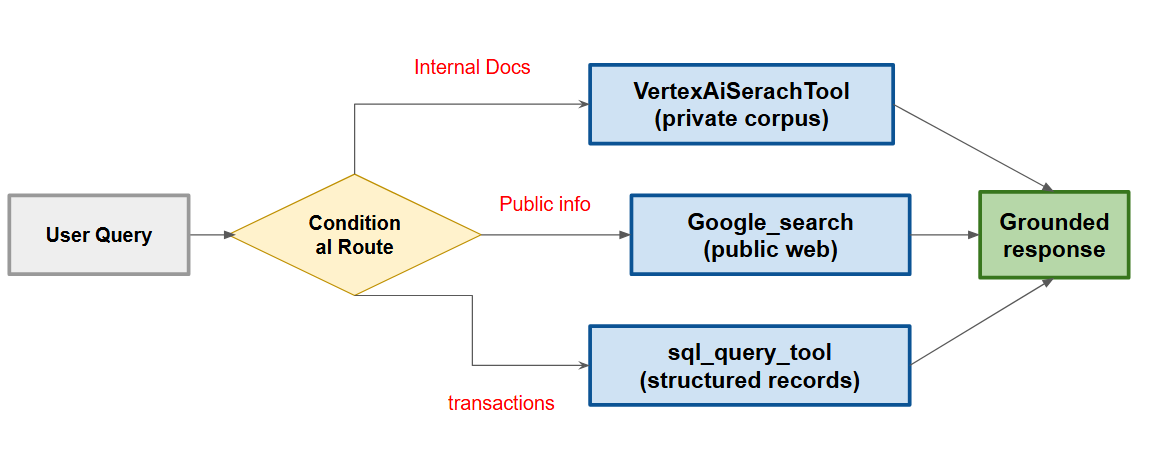
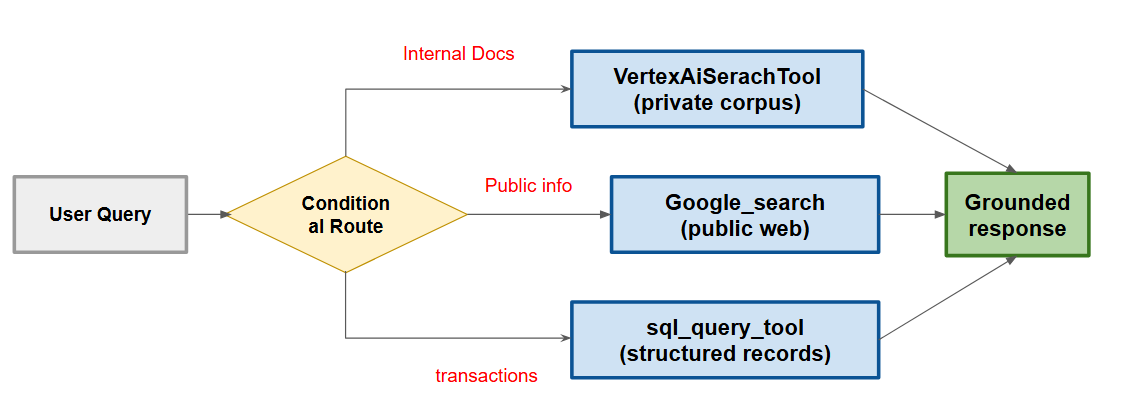
New Course Meterial

diff --git a/google/intro_to_adk/build_agents_with_adk.md b/google/intro_to_adk/build_agents_with_adk.md
@@ -1,5 +1,7 @@
 # Build Agents with the ADK
 
+Based on [Google Partner Skills Program](https://partner.skills.google/paths/4144/course_templates/1752/documents/632034)
+
 ## Agent, tools, and runners: The ADK model
 In this section we'll discover what the Google Agent Development Kit (ADK) is, what are its core components, how they fit together, and how to configure and run a simple agent.
 
@@ -9,7 +11,7 @@ The ADK is Google's open source framework for building, debugging, evaluating an
 
 ADK supports Python, TypeScript, Go, Java and Kotlin. Feature availability varies across language implementations, and _Python is the most complete implementation_. The **ADK is model-agnostic**, meaning that you can 'point it' at Gemini, Claude, OpenAI, Ollama, or _any provider supported by  LiteLLM_ (an opensource library, which provides a unified interface to dozens of model providers). You can swap models without rewriting your agent logic.
 
-The key distinction from call model API directly is orchestration. When you call a model API directly, you handle context assembly, tool dispatch, retry logic, and state management yourself. The _ADK handles all that infrastructure_, so your code expresses what an agent does, not how the runtime manages it.
+The key distinction from calling model APIs directly is orchestration. When you call a model API directly, _you_ handle context assembly, tool dispatch, retry logic, and state management yourself. The _ADK handles all that infrastructure_, so your code expresses what an agent does, not how the runtime manages it.
 
 Select the ADK of your task required one or more of the following:
 
@@ -683,3 +685,129 @@ The following diagram shows knowledge routing: A single query directed by intent
   <div align="center">
     <img src="images/knowledge_routing_adk2.png" alt="Knowledge Routing"/>
   </div>
+
+> <br/>📜 **Summary:**<br/>Grounding keeps answers anchored to real sources. Knowledge routing send each query to the right store. MCP extends an agent's reach to data and tools beyond the ADK's built-ins. Together, they let a multi-agent system draw on the full bredth of enterprise data while keeping every factual claim verifiable.<br/><br/>
+
+## Deploying Agents to Gemini Enterprise
+
+An Agent delivers value only when it reaches the people who need it, running reliably without infrastructure management.
+
+In this section we'll learn how to move an Agent from source-code to managed service on Agent Runtime, and how registering it in Gemini Enterprise (older name: Vertex AI) puts it in front of users across an organization. This allows agents to run reliably at enterprise scale without manual infrastructure management.
+
+### The Gemini Enterprise Agent Platform Ecosystem
+
+The **Gemini Enterprise Agent Platform** (a.k.a _Vertex AI Platform_) is Google cloud's managed platform for building, deploying, governing and optimizing AI agents. It consolidates capabilities that were previously spread across Vertex AI, Vertex AI Agent Builder, and Agent Engine into one platform. Agent Runtime is the new name for Agent Engine.
+
+The platform organizes it's capabilities across 4 pillars:
+
+| Pillar | Description |
+| :-- | :-- |
+| **Build** | Where the ADK lives. It's the code-first framework we've been using across this document to define agent behavior. |
+| **Scale** | Where Agent Runtime (Agent Engine) lives. It's the managed service that runs your deployed Agent(s). |
+| **Govern** | Includes Agent Registry (brand new service), a centralized catalog of approved agents, tools, and MCP servers across the organization. |
+| **Optimize** | Includes evaluation, observability, and simulation tooling for improving agent quality after deployment. |
+
+**Gemini Enterprise** is a separate product. It's the end-user web application that employees use to interact with AI Agents. An agent deployed to **Agent Runtime** (_Vertex AI Agent Engine_) doesn't automatically appear Gemini Enterprise. You register it there explicitly - we'll cover how in this section. **Registering an Agent in Gemini Enterprise is a separate step from adding it to Agent Registry.**
+
+The following diagram illustrates how ADK sits between the _Build pillar_, _Agent Runtime_ within the _Scale pillar_, and _Agent Registry_ within the _Govern Pillar_. It also shows Gemini Enterprise, which is the separate end-user application where you register agents after deployment.
+
+<div align="center">
+    <img src="images/gemini_enterprise_agent_platform.png" alt="Gemini Enterprise Agent Platform"/>
+</div>
+
+## Deploying with the ADK CLI and Agents CLI
+
+**Agent Runtime** (_Vertex AI Agent Engine_) is a fully managed service that handles scaling, cold starts, session persistence, and the network interface your agents needs to recieve requests. Deploying to it creates a `reasoningEngine` resource. That resource is the deployable unit, and its path is the handle you later hand to Gemini Enterprise.
+
+A multi-agent system deploys as a single unit. You deploy the agent project rooted at `root_agent`, which means the co-ordinator and its sub-agents together, and the Agent Runtime hosts the whole tree behind one `reasoningEngine` resource. The orchestration you build, carried over to the deployed agent unchanged, packaged the same way `adk web` discovers it locally.
+
+**Deployment assumes a billing-enabled Google Cloud project**, the Agent Platform and Cloud Resource Manager APIs enabled, an authenticatied `gcloud CLI`, and a standard ADK agent directory. 
+
+The two most direct routes to Agent Runtime are CLIs. Your choice depends on the amount of infrastructure management you prefer. Standard deployment uses ADK CLI directly. It's the right path, where you already have a project configured and want direct control over deployment parameters. You target Agent Runtme with `agent_engine` subcommand.
+
+```bash
+adk deploy agent_engine \
+  --project=$PROJECT_ID \
+  --region=$LOCATION_ID \
+  --display_name="Support Coordinator" \
+  support_agent
+```
+
+A successful deployment prints a resource path, such as `projects/PROJECT_ID/locations/LOCATION/reasoningEngines/RESOURCE_ID`. The trailing numeric `RESOURCE_ID` is what you keep for registration.
+
+Agents CLI is the right path when you want a production-ready environment setup for you, with CI/CD pipelines and infra-as-code through Terraform. You scaffold the project structure once, then deploy, and the result is the same `reasoningEngine` resource as the standard path. Whichever path you take, review any generated infrastructure against an organization's security standards before production.
+
+The following diagram illustrates the three-step deployment flow: Building the agent(s) with the ADK, deploying to Agent Runtime with ADK CLI or Agents CLI, then registering and sharing the resulting resource in Gemini Enterprise.
+
+<div align="center">
+    <img src="images/three_step_deployment_flow.png" alt="Three step deployment flow" height=300/>
+</div>
+
+### Configuring deployments programmatically
+
+Both CLI paths are convenience wrappers around one underlying mechanism: a programmatic call to `client.agent_engines.create()` in the Vertex AI SDK. Use the SDK directly when you need configuration control the CLI does not expose. That might mean choosing how your code reaches Agent Runtime, or tuning how the deployed service runs.
+
+The call accepts several deployment sources beyond your local agent directory:
+
+* **An in-memory agent object**: suited to interactive development in notebooks.
+* **Local source files or Dockerfile**: No cloud storage bucket required, which suits CI/CD pipelines.
+* **A prebuilt container image from Artifact Registry**: for teams that alread build and manage their own containers.
+* **A connected Git Repository, through Developer Connect**: Deploys straight from a linked repo, without a local build step.
+
+A `config` dictionary on the same call shapes how the deployed service runs. It groups into a few categories:
+
+| Category | Description |
+| :-- | :-- |
+| **Scaling & resources** | Instance count bounds, per-container CPU and memory, and request concurrency. |
+| **Identity and Secrets** | A dedicated agent identity or custom service account, plus environment variables backed by Secrets Manager. |
+| **Networking and Compliance** | Private Service Connect interfaces and customer-managed encryption keys. |
+
+Here is an example of the shape of the call:
+
+```python
+remote_agent = client.agent_engines.create(
+  agent=local_agent,
+  config= {
+    "display_name" : "Order Support Agent",
+    "min_instances" : 1,
+    "max_instances" : 10,
+    "resource_limits": {"cpu" : "4", "memory": "8Gi"},
+  },
+) 
+```
+
+The returned `remote_agent` wraps the same kind of `reasoningEngine` resource the CLI paths produce. `remote_agent.api_resource.name` returns its resource path, the string you carry into registration.
+
+### Registering and sharing in Gemini Enterprise
+
+Registering an agent in Gemini Enterprise makes it available to the web app, where an organization's user can invoke it. Registration needs the Gemini Enterprise Admin role, the Discovery Engine API enabled (it powers Gemini Enterprise), an existing Gemini Enterprise app, and the `reasoningEngine` resource URL from deployment.
+
+One compatability rule matters: The agent's deployment region must align with the app's location, so a `US` app expects a `us-` region and a `global` app accepts _any_.
+
+You register through the console or the REST API, and both do the same thing: link the deployed resource to a display name and description. The description is critical because the platform's model reads it to decide when to invoke the agent...,the same way a coordinator reads a sub-agent's `description` in a multi-agent pattern. The REST body shows the linkage directly.
+
+```bash
+curl -X POST ".../engines/APP_ID/assistants/default_assistant/agents" \
+  -H "Authorization: Bearer $(gcloud auth print-access-token)" \
+  -d '{
+    "displayName" : "Order Support Agent", 
+    "description" : "Handles order status and return requests",
+    "adkAgentsDefinition" : {
+      "provisionedReasoningEngine" : {
+        "reasoningEngine" : "projects/PROJECT/locations/LOCATION/reasoningEngines/RESOURCE_ID"
+      }
+    }
+  }'
+```
+
+Two conditions extend this base case. An optional authorization block is needed only when the agent acts on Google Cloud resources on behalf of users. And if the agent runs in a different project from the app, you first grant the Gemini Enterprise service agent the Discovery Engine Service Agent role in the agent's hosting project, so the platform can reach across the project boundary.
+
+Registration makes the agent exist: sharing decides who can use it. An admin shares a registered agent from its user-permissions view, and the sharing model spans several member types:
+
+* Individual users and groups by email
+* Single identities or whole pools from Workforce Identity Federation
+* An all-users option for the entire organization
+
+Each assignment carries a role. Once shared, users see the agent in their Gemini Enterprise app and an invoke it from there. 
+
+And that completes the path: and agent you build with ADK and ground, deployed to Agent Runtime as a managed resource, and shared with the people who rely on it.

diff --git a/google/intro_to_adk/craft_agents_with_persistent_memory.md b/google/intro_to_adk/craft_agents_with_persistent_memory.md
@@ -1,0 +1,63 @@
+# Craft Agents with Persistent Memories
+
+LLMs are inherently stateless, meaning their awareness is confined to the limited "context window" of a single API call. This makes building intelligent AI agents difficult. They require continuous access to operating instructions, factual data, and immediate conversational context to function effectively.
+
+**So what's the solution?**
+
+**Stateful and personal AI - starting with _context engineering_**. To create stateful agents that remember, learn, and personalize interactions, developers must build this context for every single conversational turn. This process - context engineering - evolves beyond static prompt engineering by dynamically assembling a state-aware prompt using data, conversation history, and external knowledge. Context engineering plays a critical role in creating powerful, personalized, and persistent AI experience. 
+
+There are two major components that make this happen:
+
+1. **Sessions**: The immediate container for an entire conversation, holding chronological history of the dialog and the agent's turn-by-turn working memory.
+2. **Memory**:  The mechanism of long-term persistence, which captures and consolidates key information across multiple sessions to provude a continuous and personalized experience for the user.
+
+## Context Engineering
+
+LLMs are inherently stateless. Outside of their training data, their reasoning and awareness are confined to the information provided within the "context window" of a single API call. This presents a fundamental problem: AI agents must be equipped with operating instructions, factual data, and immediate conversational information to understand their current task.
+
+To build intelligent agents that can remember, learn and personalize interactions, you must construct this context for every single turn of the conversation. This dynamic assembly and management of information is known as context engineering.
+
+### Prompt Engineering vs Context Engineering
+
+Context Engineering represents a necessary evolution from traditional prompt engineering. To understand the difference, consider how they handle information:
+
+| **Prompt Engineering** | **Context Engineering** |
+| :-- | :-- |
+| Focuses on crafting optimal, often static, system instructions | Addresses the entire payload, dynamically constructing a state-aware prompt based on the user, conversation history and external data |
+
+
+Ultimately Context Engineering involves strategically selecting, summarizing, and injecting different types of information to maximize relevance while minimizing noise. Because external systems - such as RAG databases, session stores, and memory managers - hold much of this context, your agent framework must constantly orchestrate these systems to retrieve and assemble the final prompt.
+
+The goal of context engineering is to ensure that the model has no more an dno less than the most relevant information to complete the task.
+
+### Analyze the anatomy of Context
+
+To achieve this "perfect recipe" it's helpful to understand what ingredients go into the context window. Context Engineering governs the assembly of complex payload that can include a variety of components, which can be broken down into three categories:
+
+1. **Context Guide Reasoning**: This category defines the agent's fundamental reasoning patterns and available actions, dictating its behavior:
+    
+    * **System Instructions**: High-level directives defining the agent's persona, capabilities, and constraints.
+    * **Tool definitions**: Schemas for APIs or functions the agent can use to interact with the outside world.
+    * **Few-shot examples**: Curated examples that guide the model's reasoning process via in-context learning.
+
+2. **Evidential and factual data**: This is the substantive data the agent reasons over, including pre-existing knowledge and dynamically retrieved information for the specific task; it serves as the 'evidence' for the agent's response.
+
+    * **Long-term memory**: Persisted knowledge about the user or topic, gathered across multiple sessions.
+    * **External knowledge**: information retrieved from databases or documents, often using RAG.
+    * **Tool outputs**: The data or result returned by a tool.
+    * **Sub-agent outputs**: The conclusions or results returned by specialized agents that have been delegated a specific sub-task.
+    * **Artifacts**: Non-textual data (e.g., files, images) associated with the user or session.
+
+3. **Working Context**: This final category grounds the agent in the current interaction, defining the immediate task:
+
+    * **Conversation history**: The turn-by-turn record of the current interaction.
+    * **State or scratchpad**: Temporary, in-progress information or calculations the agent uses for its immediate reasoning process.
+    * **User's prompt**: The immediate question to be addressed.
+
+### Why not include everything inside the context window?
+
+One of the biggest challenges in building a context-aware agent is dealing with an every-growing conversation history. Although modern models _can_ handle massive transcripts, sending the entire history everytime creates two significant drawbacks:
+
+| | |
+|:--|:--|
+| 1. **Increased cost and latency**: Processing a massive context window takes more time and costs more money. | 2. **"Context Rot"**: As the prompt gets longer, the model's ability to pay attention to the most critical information diminishes.|

diff --git a/google/intro_to_adk/build_enterprise_agents_with_codeex_on_gemini_ent_agent_platform.md b/google/intro_to_adk/build_enterprise_agents_with_codeex_on_gemini_ent_agent_platform.md
@@ -1,0 +1,49 @@
+# Build Enterprise Agents with Code Execution on Gemini Enterprise Agent Platform
+
+Source : [Google Partner Training](https://partner.skills.google/paths/4144/course_templates/1745/documents/633755)
+
+In this document, we'll explore the Code execution feature of the Gemini Enterprise Agent Platform (formerly known as the _Vertex AI Platform_), which lets AI agents safely generate and run Python code in isolated sandbox environments. We'll see how the Agent Sandbox fits into the broader platform architecture, how to configure and operate Code Execution sandboxes using the Agent Platform SDK, and how to integrate code execution into agent workflows with the ADK.
+
+## Gemini Enterprise Agent Platform and the Agent Sandbox
+
+In this section we'll learn what the Gemini Enterprise Agent Platform is and where Code Execution fits inside it. Many agent tasks, such as complex mathematical calculations or data analysis, require an agent to generate and run untrusted code. Giving an agent the ability to run arbitraty code raises an immediate question: **Where does that code actually run**? We'll explore platform architecture and see how Agent Sandbox is designed to answer that question safely.
+
+### The Gemini Enterprise Agent Platform
+
+The **Gemini Enterprise Agent Platform** (formerly known as the Vertex AI Platform), is Google Cloud's platform for building, scaling, governing, and optimizing AI Agents. It launched in April 2026 as the evolution of the Vertex AI Agent Builder. It consolidates model selection, agent development, and enterprise operations into one integrated platform.
+
+The platform organized its capabilities into four areas:
+
+| Area | Description | 
+| :-- | :-- |
+| **Build** | **Tools for creating agents**: **Agent Studio** for low-code development, the **Agent Development Kit (ADK)** for code-first engineering, **sub-agents** for multi-agent workflows, **Agent Garden templates**, and batch and event-driven agent support. |
+| **Scale** | **Infrastructure for running agents in production**: **Agent Runtime** for deployment, **Agent Memory Bank** for long-term context, **Agent Sessions** for tracking conversations, and **Agent Sandbox** for safe execution of risky operations. |
+| **Govern** | **Controls for secure, compliant agent deployments**: **Agent Identity**, **Agent Registry**, **Agent Gateway**, **Agent Anamoly Detection**, **Agent Threat Detection**, and **Agent Security Dashboard** |
+| **Optimize** | **Tools for improving agents over time**: Agent Simulation, Agent Evaluation, Agent Observability, and Agent Optimizer. |
+
+All the Vertex AI services and roadmap evolutions are now delivered through Agent Platform. If you've worked with Vertex AI Agent Builder before, you'll recognize the building blocks; the platform adds the Scale & Govern layers that enterprise production deployments require.
+
+The following diagram maps these four areas and highlights where Agent Sandbox sits within Scale:
+
+<div align="center">
+<img src="images/gemini_enterprise_ai_platform.png" alt="Gemini Enterprise AI Platform"/>
+</div>
+
+For an enterprise application, these capabilities work together:
+
+* The Build tools help engineers author a portfolio-analysis agent, Scale runs it reliabily and safely.
+* Govern ensures it meets the compliance requirements, and Optimize continuously improves it.
+
+## The Scale area: Agent Runtime and Agent Sandbox
+
+Within the Scale capability area, two components handle the execution side of agents: **Agent Runtime** and **Agent Sandbox**
+
+They serve different purposes and operate in different trust domains.
+
+**Agent Runtime**
+
+Agent Runtime is a trusted, long-running environment where your agent's core logic executes. It deliveres sub-second cold starts and supports long running agents. This is where agent reasons, decides what actions to take, and co-ordinates with tools. Agent Memory bank handles long term context retention, while Agent Sessions tracks conversation state. Both are distinct Scale components that work alongside Agent Runtime.
+
+An Agent Engine is the top-level container resource that owns your sandboxes. You create one before provisioning a sandbox, and it persists across the sandbox lifecycle.
+
+<<TODO: continue from here: >>

diff --git a/google/intro_to_adk/build_and_deploy_agents_with_the_adk.md b/google/intro_to_adk/build_and_deploy_agents_with_the_adk.md
@@ -1,0 +1,9 @@
+# Build and Deploy Agents with the Agent Development Kit (ADK)
+
+ADK makes building sophisticated multi-agent systems fast and easy. 
+
+This is a learning path for the same:
+1. [Building Agents with the ADK](building_agents_with_adk.md)
+2. [Build Enterprise Agents with Code Execution on Gemini Enterprise Agent Platform](build_enterprise_agents_with_codeex_on_gemini_ent_agent_platform.md)
+3. [Craft Agents with Persistent Memory](craft_agents_with_persistent_memory.md)
+4. [Build and ADK agent with Session and Memory Services](build_adk_agent_with_session_and_memory.md)

diff --git a/google/intro_to_adk/build_adk_agent_with_session_and_memory.md b/google/intro_to_adk/build_adk_agent_with_session_and_memory.md
@@ -1,0 +1,2 @@
+# Building and ADK Agent with Session and Memory Services
+